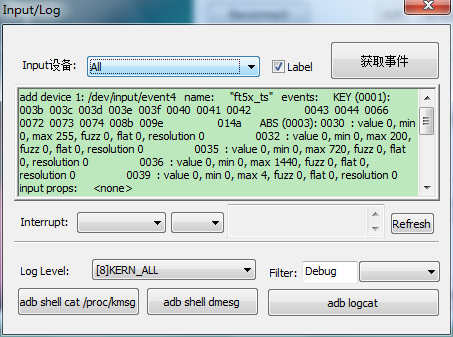
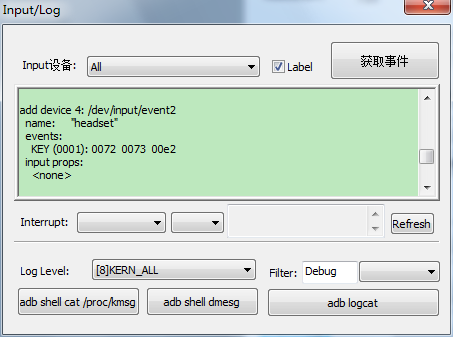
CR/LF bugfix in input devices

diff --git a/AdbTool/InputLogDlg.cpp b/AdbTool/InputLogDlg.cpp
@@ -90,7 +90,10 @@ BOOL CInputLogDlg::OnInitDialog()
 		m_strAllAttrs += TEXT("\n");
 	}
 
+	m_strAllAttrs.Replace(TEXT("\r"), TEXT("\n"));
 	m_strAllAttrs.Replace(TEXT("\n"), TEXT("\r\n"));
+	m_strAllAttrs.Replace(TEXT("\r\n\r\n"), TEXT("\r\n"));
+
 	
 	m_cbInputDevices.SetCurSel(0);
 
@@ -317,7 +320,9 @@ void CInputLogDlg::OnCbnSelchangeComboInput()
 					strText += *cit;
 					strText += TEXT("\n");
 				}
+				strText.Replace(TEXT("\r"), TEXT("\n"));
 				strText.Replace(TEXT("\n"), TEXT("\r\n"));
+				strText.Replace(TEXT("\r\n\r\n"), TEXT("\r\n"));
 
 				m_richInputAttrs.SetWindowTextW(strText);
 				return;
